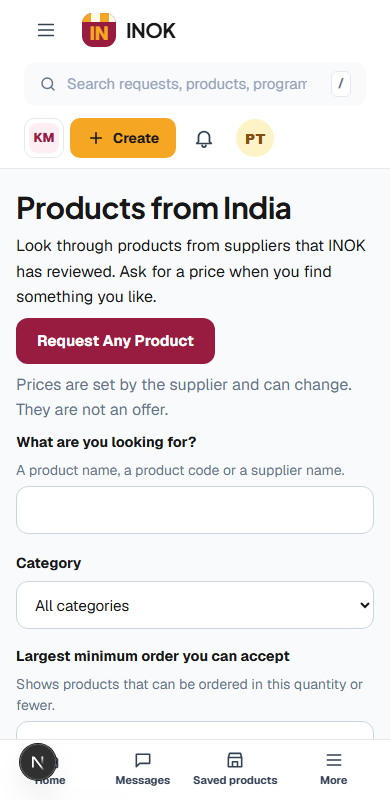
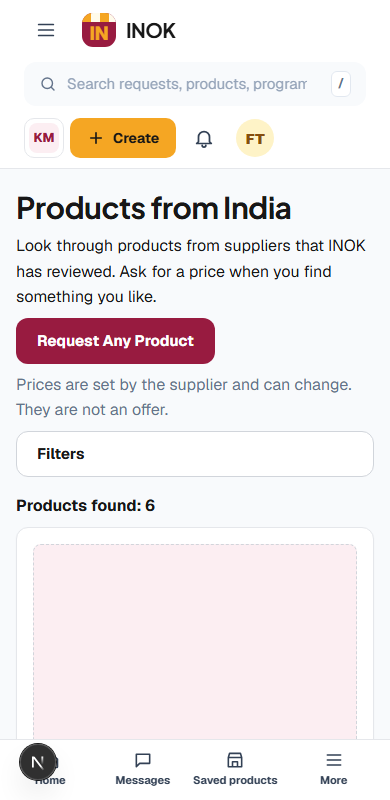
Products filter disclosure on phones, compare-row contrast, E60 buyer org

diff --git a/platform/tests/e2e/e60-buyer-catalogue.spec.ts b/platform/tests/e2e/e60-buyer-catalogue.spec.ts
@@ -4,7 +4,7 @@ import {
   axeClean, card, daysAgo, makePartner, makeProduct, makeReviewer, makeSupplier, partnerAcknowledge, partnerClarify, partnerView, requestEvents, requestItems, requestsForSupplier, requestsOfBuyer,
   savedProductIds, tb, tcm, today, type Product,
 } from './support/p5-buyer';
-import { loginUi, logoutUi } from './support/ui';
+import { createOrgUi, loginUi, logoutUi } from './support/ui';
 
 // E60 (journey 4): a Malaysian buyer finds products from India, filters, compares two, saves one, sends a real price request, signs out and in
 // again and finds both still there; the partner sees the request. Real database, real RPCs, synthetic data. Persisted state is read with SQL.
@@ -108,6 +108,8 @@ test('E60 buyer journey: search, filter, compare, save, request a price, sign ou
   await expect(page).toHaveURL(/\/login\?next=/);
   await fillLogin(page, buyer);
   await expect(page).toHaveURL(new RegExp(`/catalogue\\?q=${tag}$`));
+  await createOrgUi(page, 'buyer', 'E60 Buyer Co'); // actions need an organisation
+  await page.goto(`/en/catalogue?q=${tag}`);
 
   // ---- signed in: save one product, the state comes from the database
   await page.waitForLoadState('networkidle');

diff --git a/platform/src/app/[locale]/catalogue/(browse)/page.tsx b/platform/src/app/[locale]/catalogue/(browse)/page.tsx
@@ -1,3 +1,4 @@
+import FilterSheet from '@/components/catalogue/FilterSheet';
 import { getTranslations } from 'next-intl/server';
 import CardActions from '@/components/catalogue/CardActions';
 import { hasActiveFilters, pageCount, parseSearchFilters, searchQueryString, toServiceParams } from '@/components/catalogue/helpers';
@@ -50,6 +51,7 @@ export default async function CataloguePage({
       <p><Link href="/sourcing/new" locale={locale} className="btn btn-primary">{t6('new')}</Link></p>
       <p className="muted">{tc('price.note')}</p>
 
+      <FilterSheet label={t('search.filters')} active={filtered}>
       <form method="get" className="form catalogue-filters" role="search" aria-label={t('search.label')}>
         <div className="field">
           <label htmlFor="q">{t('search.q')}</label>
@@ -122,6 +124,7 @@ export default async function CataloguePage({
           ) : null}
         </div>
       </form>
+      </FilterSheet>
 
       {f.supplier ? (
         <p className="catalogue-active-filter">

diff --git a/platform/src/components/catalogue/FilterSheet.tsx b/platform/src/components/catalogue/FilterSheet.tsx
@@ -1,0 +1,23 @@
+'use client';
+
+import { useId, useState, type ReactNode } from 'react';
+
+/**
+ * Filters: always open on wide screens; on phones the form collapses behind one "Filters" button (a disclosure, not a modal),
+ * so the products come first. The form stays in the DOM and is hidden with CSS only below 640px, so it works without JavaScript on desktop.
+ */
+export default function FilterSheet({ label, active, children }: { label: string; active: boolean; children: ReactNode }) {
+  const [open, setOpen] = useState(false);
+  const id = useId();
+  return (
+    <div className="fsheet" data-open={open ? 'true' : 'false'}>
+      <button type="button" className="btn btn-secondary fsheet-btn" aria-expanded={open} aria-controls={id} onClick={() => setOpen((v) => !v)}>
+        {label}
+        {active ? <span className="chip-x brand" aria-hidden="true">•</span> : null}
+      </button>
+      <div id={id} className="fsheet-body">
+        {children}
+      </div>
+    </div>
+  );
+}

diff --git a/platform/src/app/kit.css b/platform/src/app/kit.css
@@ -100,3 +100,12 @@
   .dir-filters { flex-wrap: wrap; }
   .dir-filters nav { width: 100%; }
 }
+
+/* Products filter disclosure: button only on phones. */
+.fsheet-btn { display: none; }
+@media (max-width: 639px) {
+  .fsheet-btn { display: inline-flex; width: 100%; justify-content: space-between; align-items: center; margin-bottom: 8px; }
+  .fsheet[data-open='false'] .fsheet-body { display: none; }
+}
+
+.compare-differs .muted, .compare-differs .mut { color: #475569; }
